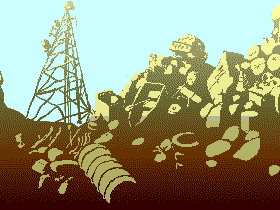
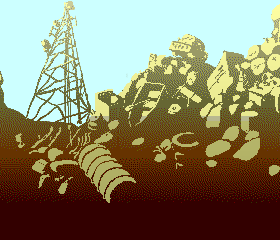
Fix bigbug background glitch

diff --git a/main/modes/games/bigbug/mode_bigbug.c b/main/modes/games/bigbug/mode_bigbug.c
@@ -457,11 +457,6 @@ static void bb_BackgroundDrawCallback(int16_t x, int16_t y, int16_t w, int16_t h
         // Deep underground is black
         bgColor = c000;
     }
-    else if (cameraPos->y > -220)
-    {
-        // Shallow underground is dark red
-        bgColor = c100;
-    }
     else
     {
         // Lookup table of background colors from dark to light
